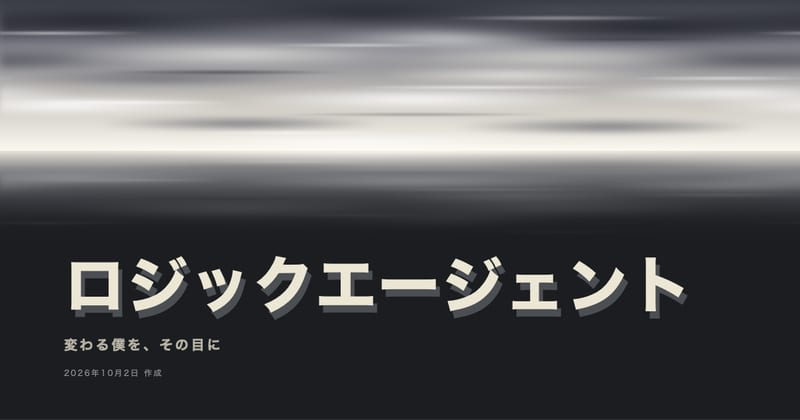
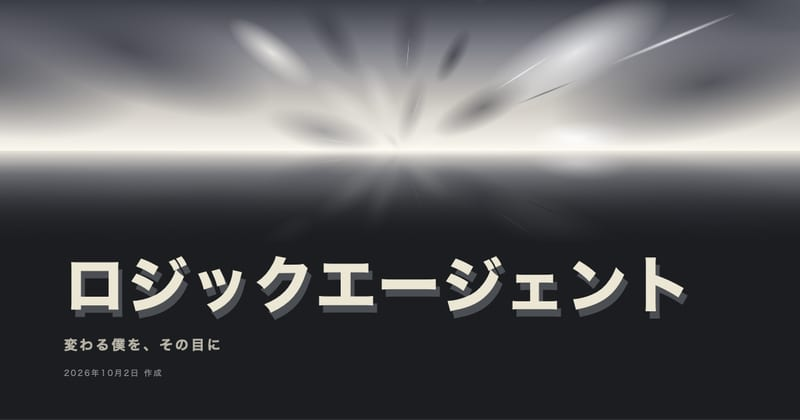
fix: ロジックエージェントの雲を、横ではなく地平の一点から手前へ迫る動きに(plan/61)
Claude-Session: https://claude.ai/code/session_019aiWLexjpzsr9jmmoxMXpr

diff --git a/src/components/songArticles/designs/reol-song-017/LogicAgentDesign.tsx b/src/components/songArticles/designs/reol-song-017/LogicAgentDesign.tsx
@@ -86,56 +86,51 @@ const useRevealOnce = <T extends Element>(threshold: number) => {
 
 /**
  * サビの景色(本文の段落18: 空と陸の境目がわからない世界が開け、雲が高速で流れていく)。
- * 上は白と濃い灰の雲が横へ流れる空、地平の光の帯を挟んで、下は空を映す地面(雲が逆さに映り、奥へ暗くなる)。
- * 白い筋がときどき落ちる。表紙・サビの帯・視線の図で使う。MV の画面は複製せず、空・地平・映り込みの作りだけ
+ * 上は雲が奥(地平の一点)から手前(画面の上・左右)へ迫ってくる空。
+ * 地平の光の帯を挟んで、下は空を映す地面(雲を逆さに映し、奥へ暗くなる)。白い筋がときどき落ちる。
+ * 表紙・サビの帯・視線の図で使う。MV の画面は複製せず、空・地平・映り込みの作りだけ
+ * 2026-11-05 ユーザー「雲の流れの方向が間違えている 右から左ではなく奥から手前」
  */
-type Cloud = [x: number, y: number, rx: number, ry: number, color: string];
-const CLOUDS_FAR: Cloud[] = [
-  [8, 70, 30, 10, "255 255 255 / 0.95"],
-  [30, 82, 26, 7, "70 72 82 / 0.7"],
-  [52, 66, 34, 11, "255 255 255 / 0.9"],
-  [76, 84, 28, 8, "60 62 72 / 0.65"],
-  [92, 62, 26, 9, "255 255 255 / 0.85"],
-  [20, 52, 28, 9, "80 82 92 / 0.6"],
-  [64, 50, 24, 8, "245 243 236 / 0.8"],
-  [44, 94, 30, 6, "255 255 255 / 0.9"],
-];
-const CLOUDS_NEAR: Cloud[] = [
-  [12, 14, 40, 18, "30 32 40 / 0.92"],
-  [46, 8, 36, 16, "36 38 46 / 0.9"],
-  [82, 18, 42, 18, "28 30 38 / 0.9"],
-  [30, 36, 34, 12, "240 238 232 / 0.85"],
-  [68, 38, 32, 12, "230 228 222 / 0.8"],
-  [94, 40, 26, 10, "60 62 72 / 0.7"],
-  [56, 26, 24, 9, "255 255 255 / 0.7"],
-  [4, 40, 22, 9, "90 92 102 / 0.7"],
-];
-// 速く流れる細い筋(雲が高速で流れる)
-const CLOUDS_STREAK: Cloud[] = [
-  [6, 22, 18, 2, "255 255 255 / 0.7"],
-  [28, 48, 22, 2.5, "40 42 50 / 0.6"],
-  [44, 30, 16, 1.6, "255 255 255 / 0.75"],
-  [60, 58, 24, 2, "255 255 255 / 0.8"],
-  [78, 26, 20, 2.2, "40 42 50 / 0.55"],
-  [90, 52, 18, 1.8, "255 255 255 / 0.7"],
-  [16, 68, 20, 2, "255 255 255 / 0.85"],
-  [52, 76, 26, 1.6, "60 62 72 / 0.5"],
-  [70, 12, 22, 2.4, "255 255 255 / 0.5"],
-  [36, 88, 18, 1.4, "255 255 255 / 0.9"],
-];
-// 雲の層は空の幅の2倍。同じ雲を空の幅ごとにずらして4組並べ、半分だけ流すと継ぎ目なく繰り返す
-const cloudLayer = (clouds: Cloud[]) =>
-  [-1, 0, 1, 2]
-    .flatMap((k) =>
-      clouds.map(
-        ([x, y, rx, ry, c]) =>
-          `radial-gradient(ellipse ${rx / 2}% ${ry}% at ${(x + 100 * k) / 2}% ${y}%, rgb(${c}), transparent 70%)`
-      )
-    )
-    .join(", ");
-const FAR_BG = cloudLayer(CLOUDS_FAR);
-const NEAR_BG = cloudLayer(CLOUDS_NEAR);
-const STREAK_BG = cloudLayer(CLOUDS_STREAK);
+// 雲は地平の一点(消失点)から放射状の線の上を手前へ進み、近づくほど大きく速くなる(天井に浮かぶ雲を遠近で見た動き)。
+// 3D の変形は使わず、線の向きに回した枠の中で、前進と拡大を同じ時間・同じ加速で動かす。
+// [線の角度(地平から上へ 度), 遅れ(周期の割合), 大きさ(空の幅に対する %), 色, 種類]
+type Puff = [angle: number, delay: number, size: number, color: string, kind: "mass" | "streak"];
+const PUFF_COLORS = ["255 255 255 / 0.95", "34 36 44 / 0.9", "240 238 232 / 0.9", "60 62 72 / 0.8", "255 255 255 / 0.8"];
+const STREAK_COLORS = ["255 255 255 / 0.9", "40 42 50 / 0.6", "255 255 255 / 0.75"];
+// 決まった並びの乱数(サーバーで描いた HTML と画面で同じ位置になるように)
+const seeded = (seed: number) => () => {
+  seed = (seed * 1103515245 + 12345) % 2147483648;
+  return seed / 2147483648;
+};
+const PUFFS: Puff[] = (() => {
+  const r = seeded(17);
+  const mass: Puff[] = Array.from({ length: 40 }, (_, i) => [
+    3 + ((i * 7 * 174) / 40 + r() * 10) % 174,
+    i / 40,
+    40 + r() * 60,
+    PUFF_COLORS[Math.floor(r() * PUFF_COLORS.length)],
+    "mass",
+  ]);
+  const streak: Puff[] = Array.from({ length: 18 }, (_, i) => [
+    6 + r() * 168,
+    (i + r()) / 18,
+    22 + r() * 22,
+    STREAK_COLORS[Math.floor(r() * STREAK_COLORS.length)],
+    "streak",
+  ]);
+  return [...mass, ...streak];
+})();
+const Rays: React.FC = () => (
+  <div className="a017-sky__rays">
+    {PUFFS.map(([angle, delay, size, color, kind], i) => (
+      <div key={i} className="a017-sky__ray" style={{ transform: `rotate(${-angle.toFixed(2)}deg)` }}>
+        <div className={`a017-sky__carrier is-${kind}`} style={{ "--a017-delay": delay.toFixed(3) } as React.CSSProperties}>
+          <i className="a017-sky__puff" style={{ width: `${size.toFixed(1)}%`, color: `rgb(${color})` }} />
+        </div>
+      </div>
+    ))}
+  </div>
+);
 // 落ちる白い筋: [横の位置 %, 遅れ 秒, 長さ px]
 const DROPS: [number, number, number][] = [
   [6, 0, 14], [14, 1.3, 10], [23, 0.6, 18], [31, 2.1, 12], [39, 0.2, 9], [47, 1.7, 16], [55, 0.9, 11],
@@ -144,15 +139,11 @@ const DROPS: [number, number, number][] = [
 const Sky: React.FC<{ className?: string; children?: React.ReactNode }> = ({ className = "", children }) => (
   <div className={`a017-sky ${className}`} aria-hidden="true">
     <div className="a017-sky__up">
-      <div className="a017-sky__clouds is-far" style={{ backgroundImage: FAR_BG }} />
-      <div className="a017-sky__clouds is-near" style={{ backgroundImage: NEAR_BG }} />
-      <div className="a017-sky__clouds is-streak" style={{ backgroundImage: STREAK_BG }} />
+      <Rays />
     </div>
     <div className="a017-sky__down">
       <div className="a017-sky__flip">
-        <div className="a017-sky__clouds is-far" style={{ backgroundImage: FAR_BG }} />
-        <div className="a017-sky__clouds is-near" style={{ backgroundImage: NEAR_BG }} />
-        <div className="a017-sky__clouds is-streak" style={{ backgroundImage: STREAK_BG }} />
+        <Rays />
       </div>
     </div>
     <div className="a017-sky__horizon" />

diff --git a/src/components/songArticles/designs/reol-song-017/logic-agent.css b/src/components/songArticles/designs/reol-song-017/logic-agent.css
@@ -5,7 +5,7 @@
  * 色の役割(『-nil-／極彩色』の輪で「ロジックエージェント」に当てた 光・影。色ではなく灰色の濃さで描く):
  *   --ground 影の濃い灰(地) / --light 光(#ece6d4。本文・題名・高い方の声) / --shade 影(#8d939a。写し・低い方の声・記憶の側)
  *   --day サビの空が開けたあとの明るい地。.a017-day の中では、文字は墨(--light を墨に置き換える)、写しは濃い灰
- * サビの景色(.a017-sky): 白と濃い灰の雲が横へ流れる空、地平の光の帯、空を映す地面。色は光・影の灰色の幅の中で
+ * サビの景色(.a017-sky): 白と濃い灰の雲が奥から手前へ迫る空、地平の光の帯、空を映す地面。色は光・影の灰色の幅の中で
  */
 
 .a017 {
@@ -217,21 +217,49 @@
   inset: 0;
   background: linear-gradient(180deg, transparent 0%, rgb(27 29 32 / 0.35) 40%, var(--ground) 100%);
 }
-.a017-sky__clouds {
+/* 雲: 消失点(空の下端の中央 = 地平)から放射状に。地面の側は .a017-sky__flip で上下を返すので、
+   同じ雲が地平から下へ広がる映り込みになる */
+.a017-sky__rays {
   position: absolute;
-  top: 0;
+  inset: 0;
+}
+.a017-sky__ray {
+  position: absolute;
+  left: 50%;
+  top: 100%;
+  width: 110%;
+  height: 0;
+  transform-origin: 0 0;
+}
+/* 線の上を前へ運ぶ枠(枠の幅 = 線の長さ)。中の雲は同じ時間・同じ加速で大きくなる。
+   遅れは周期の割合(--a017-delay)で、動きを減らす設定では止めたまま、その位置に置く */
+.a017-sky__carrier {
+  --a017-dur: 3s;
+  position: absolute;
+  inset: 0;
+  animation: a017-come var(--a017-dur) cubic-bezier(0.5, 0, 1, 1) infinite;
+  animation-delay: calc(var(--a017-delay) * var(--a017-dur) * -1);
+}
+.a017-sky__carrier.is-streak {
+  --a017-dur: 1.1s;
+}
+.a017-sky__puff {
+  position: absolute;
   left: 0;
-  width: 200%;
-  height: 100%;
-  background-repeat: no-repeat;
-  filter: blur(4px);
-  will-change: transform;
+  top: 0;
+  aspect-ratio: 3 / 1;
+  background: radial-gradient(closest-side, currentColor, transparent);
+  animation: a017-grow var(--a017-dur) cubic-bezier(0.5, 0, 1, 1) infinite;
+  animation-delay: inherit;
 }
-.a017-sky__clouds.is-near {
-  filter: blur(7px);
+.a017-sky__carrier.is-streak .a017-sky__puff {
+  aspect-ratio: 30 / 1;
 }
-.a017-sky__clouds.is-streak {
-  filter: blur(1.5px);
+@media (prefers-reduced-motion: reduce) {
+  .a017-sky__carrier,
+  .a017-sky__puff {
+    animation-play-state: paused;
+  }
 }
 /* 地平の光の帯 */
 .a017-sky__horizon {
@@ -253,25 +281,33 @@
   opacity: 0;
 }
 @media (prefers-reduced-motion: no-preference) {
-  .a017-sky__clouds.is-far {
-    animation: a017-drift 6s linear infinite;
-  }
-  .a017-sky__clouds.is-near {
-    animation: a017-drift 2.6s linear infinite;
-  }
-  .a017-sky__clouds.is-streak {
-    animation: a017-drift 1.2s linear infinite;
-  }
   .a017-sky__drop {
     animation: a017-fall 3.2s linear infinite;
   }
 }
-@keyframes a017-drift {
+@keyframes a017-come {
   from {
     transform: translateX(0);
   }
   to {
-    transform: translateX(-50%);
+    transform: translateX(100%);
+  }
+}
+@keyframes a017-grow {
+  0% {
+    transform: translate(-50%, -50%) scale(0.05);
+    opacity: 0;
+  }
+  /* 地平の近くでは光に溶けて薄く、手前へ来るほど濃く */
+  18% {
+    opacity: 0.35;
+  }
+  40% {
+    opacity: 1;
+  }
+  100% {
+    transform: translate(-50%, -50%) scale(1);
+    opacity: 1;
   }
 }
 @keyframes a017-fall {

diff --git a/plan/61-logic-agent-article-design.md b/plan/61-logic-agent-article-design.md
@@ -87,3 +87,13 @@
 - 指摘: 「よくなったけど、雲の流れるスピードはもっと早い」
 - 雲の3層の一周(画面幅1つ分)を 遠い雲 18s→6s、近い雲 7s→2.6s、細い筋 3.2s→1.2s に(どれも約3倍)。390px で毎秒およそ 65・150・325px、1280px で 210・490・1060px。落ちる筋の速さは変えていない。
 - 確認: 開発サーバーの Chromium・WebKit、390・1280px で、実際の移動量を測った。横はみ出しなし、ページのエラーなし。動きを減らす設定では今までどおり止まったまま。
+
+## 9. 雲は奥から手前へ(2026-11-05)
+
+- 指摘: 「雲の流れの方向が間違えている 右から左ではなく奥から手前」
+- 横へ流していた雲の3層をやめ、地平の一点(消失点)から放射状の線の上を、雲が手前へ迫ってくる動きに描き直した。近づくほど大きく・速く(遠近で見た天井の雲の動き。加速は cubic-bezier(0.5,0,1,1))。地平の近くでは光に溶けて薄い。
+  - 雲の塊 40 個(一周 3s)、細い筋 18 個(一周 1.1s)。角度・大きさ・色は決まった並びの乱数で配る(サーバーで描いた HTML と画面で同じ)。
+  - 地面の側は同じ雲を上下に返して、地平から下へ広がる映り込みに。
+  - 動きを減らす設定では、雲は散らばった位置で止まったまま。
+- 最初は雲を描いた面を 3D で奥へ倒す作り(perspective + rotateX)にしたが、Playwright の WebKit では面が描かれず iPhone の見え方を確かめられないため、3D を使わない 2D の放射に変えた。
+- 確認: 開発サーバーの Chromium・WebKit、360・390・1280px と動きを減らす設定。横はみ出しなし、ページのエラーなし、noindex あり、`utm_` なし、歌ネットは1つ。MV は枠にぴったり重なり、スクロールで小窓へ。表紙・サビの帯・視線の図で雲が地平から広がる。OGP を撮り直した。
